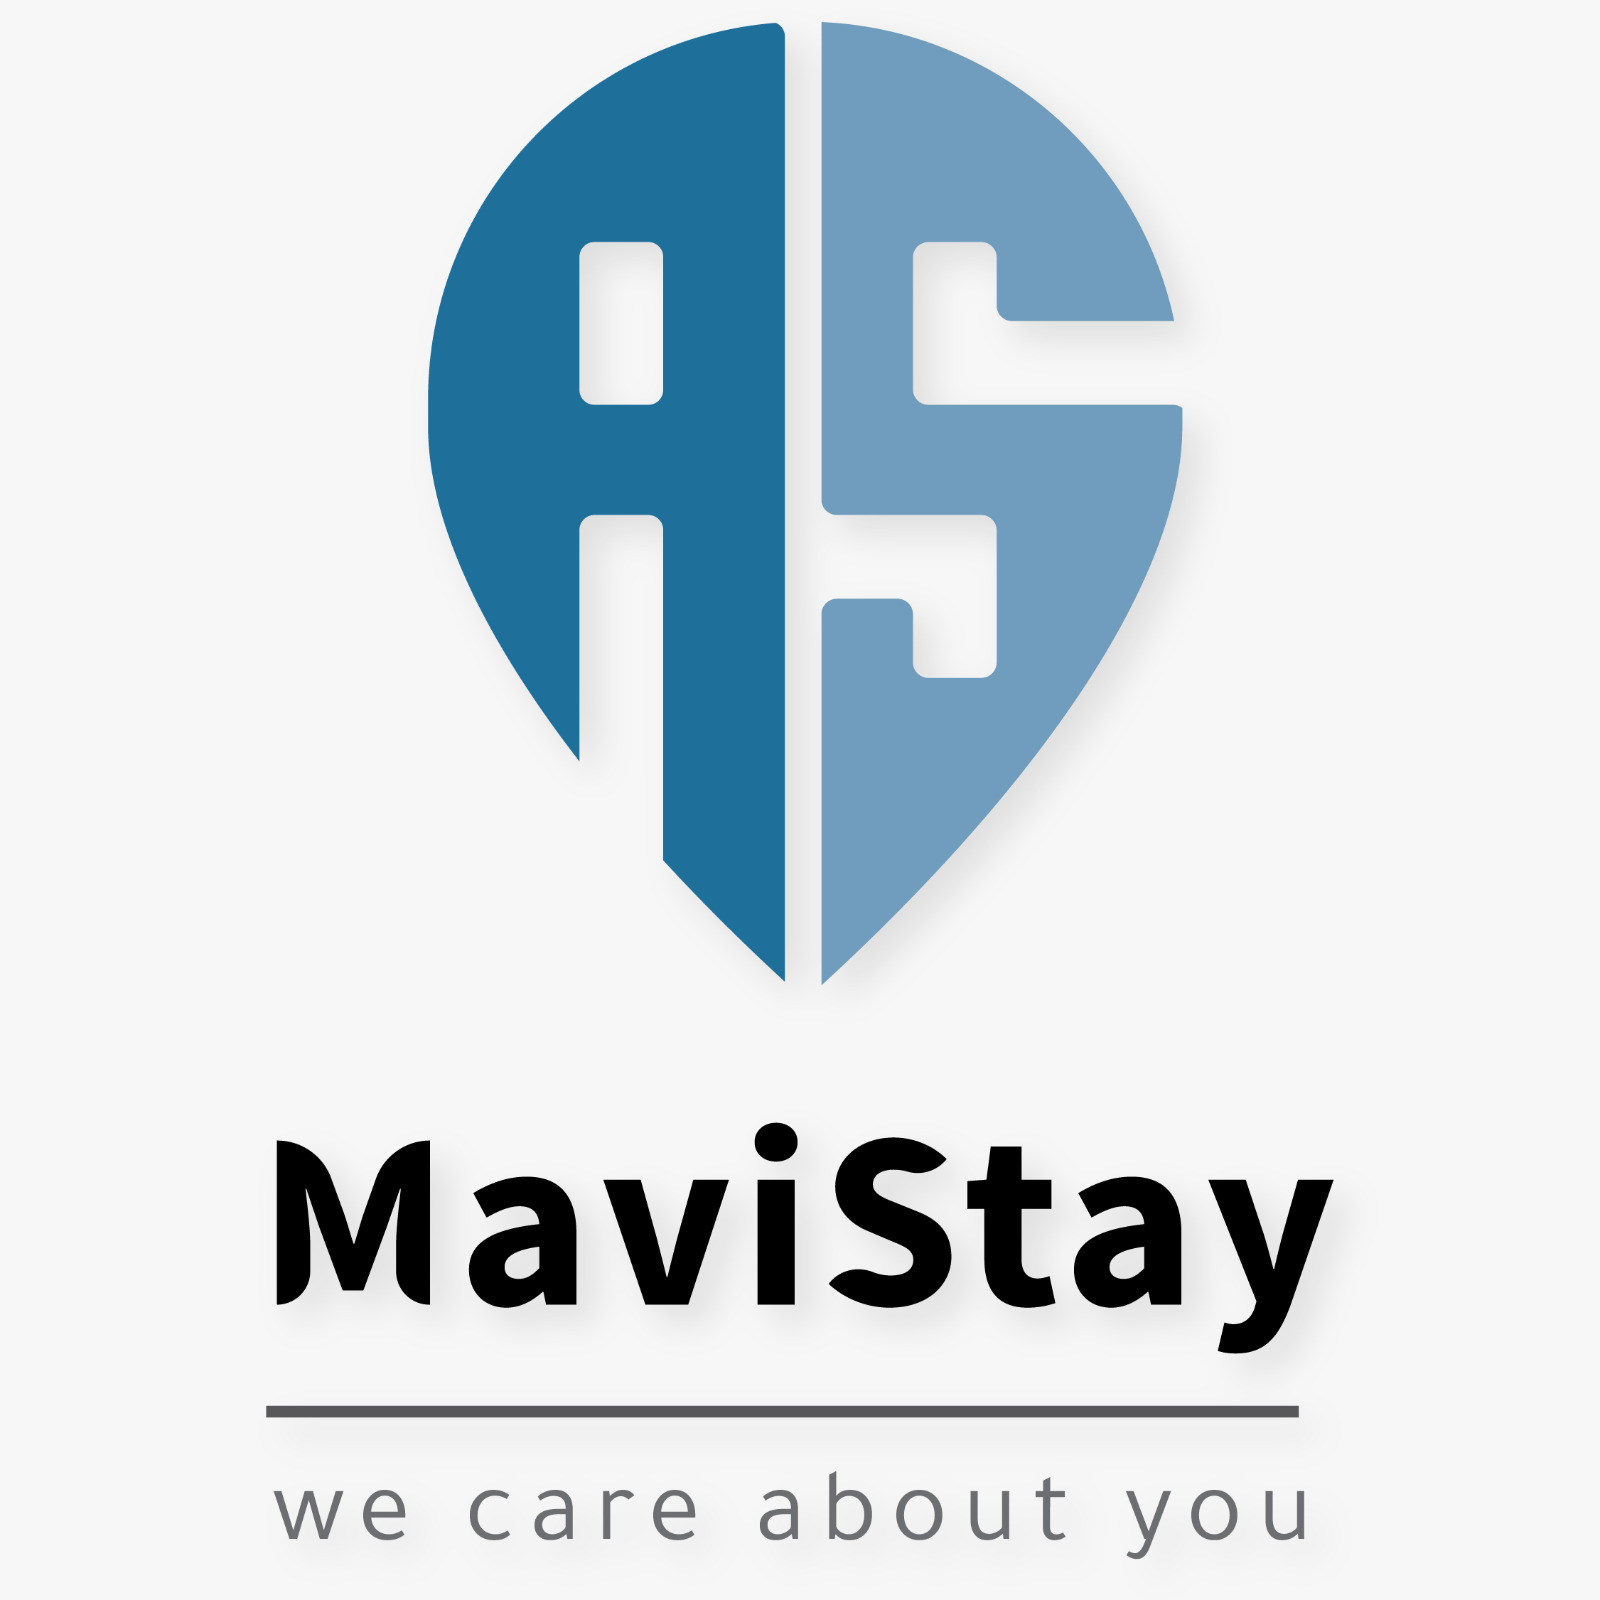
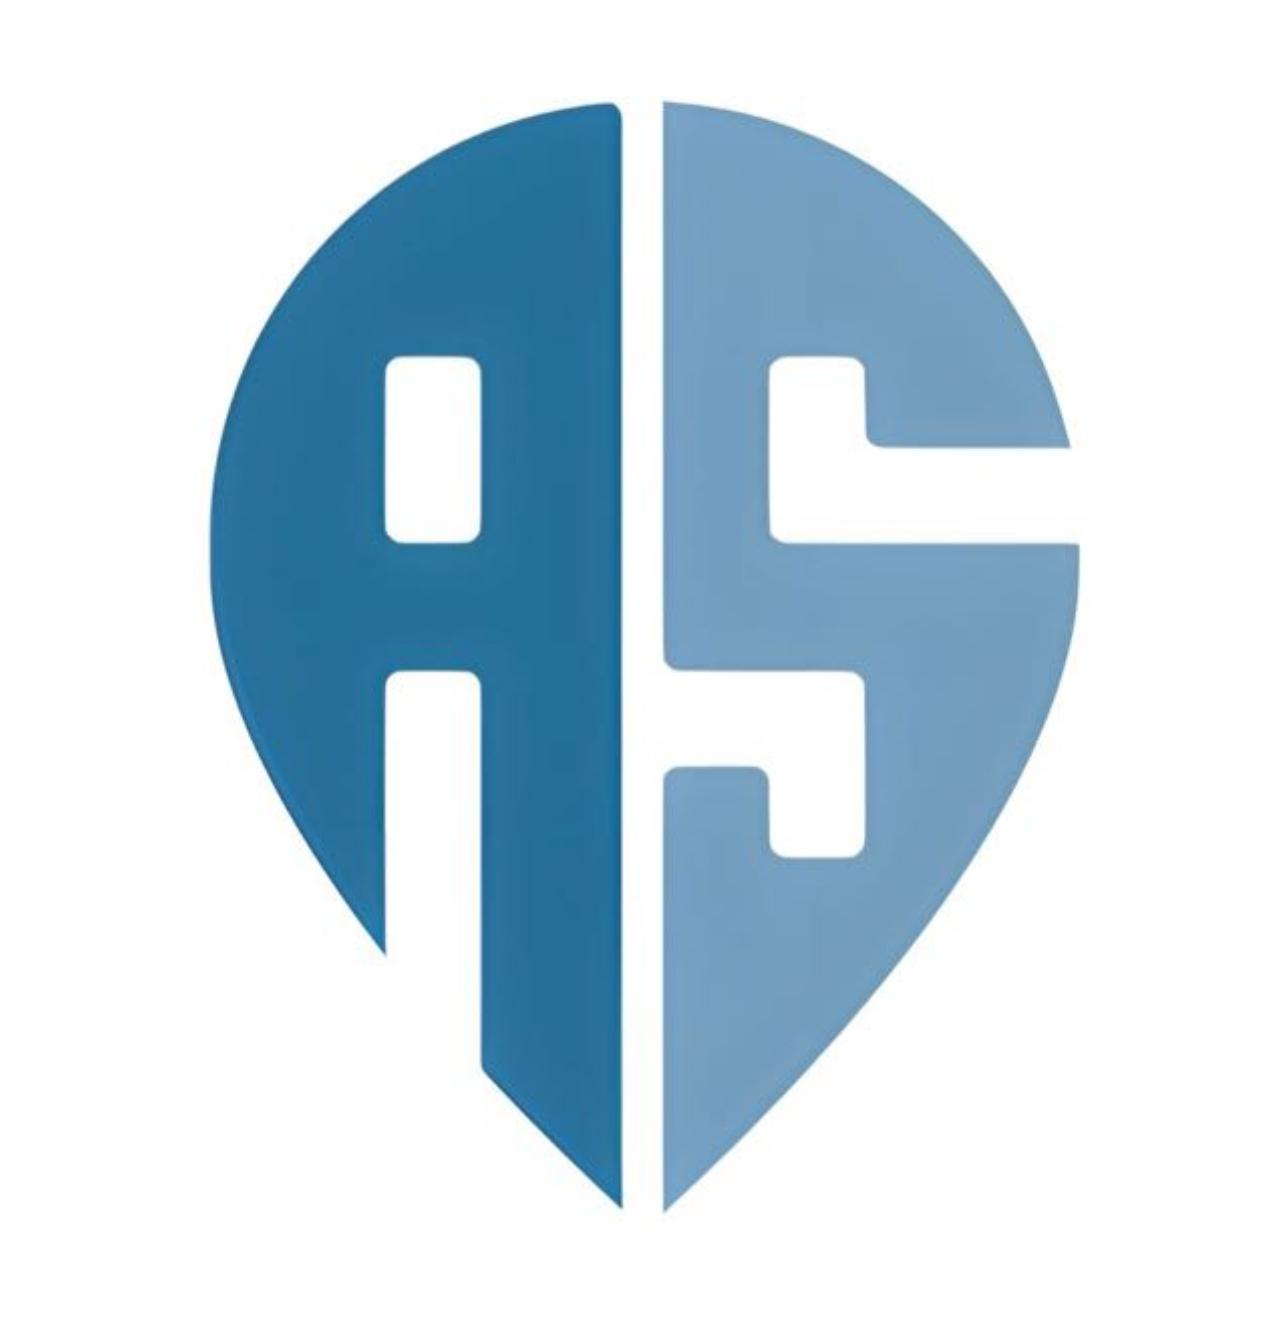
ف

Changed region(s): [[0.1554, 0.0, 0.8392, 0.9784], [0.2797, 0.9172, 0.4351, 0.9784], [0.1554, 0.9172, 0.2486, 0.9784]]

diff --git a/components/NavBar.vue b/components/NavBar.vue
@@ -2,8 +2,8 @@
     <nav class="flex justify-between items-center shadow-md py-3 sticky top-0 z-10">
         <!-- LOGO -->
         <div class="mx-5 md:mx-10 ">
-      <h2 class="text-2xl font-bold text-sky-400">Mavistay</h2>
-       </div>
+           <img src="/public/fe40fc5b-9967-40a5-ac1b-82f69ba48b91.jpeg" alt="" class="w-16 h-16 rounded-full">
+        </div>
         <!-- LINKS IN LARGE SCREEN -->
         <div class="mx-10 hidden lg:block">
             <ul class="flex  items-center font-semibold">
